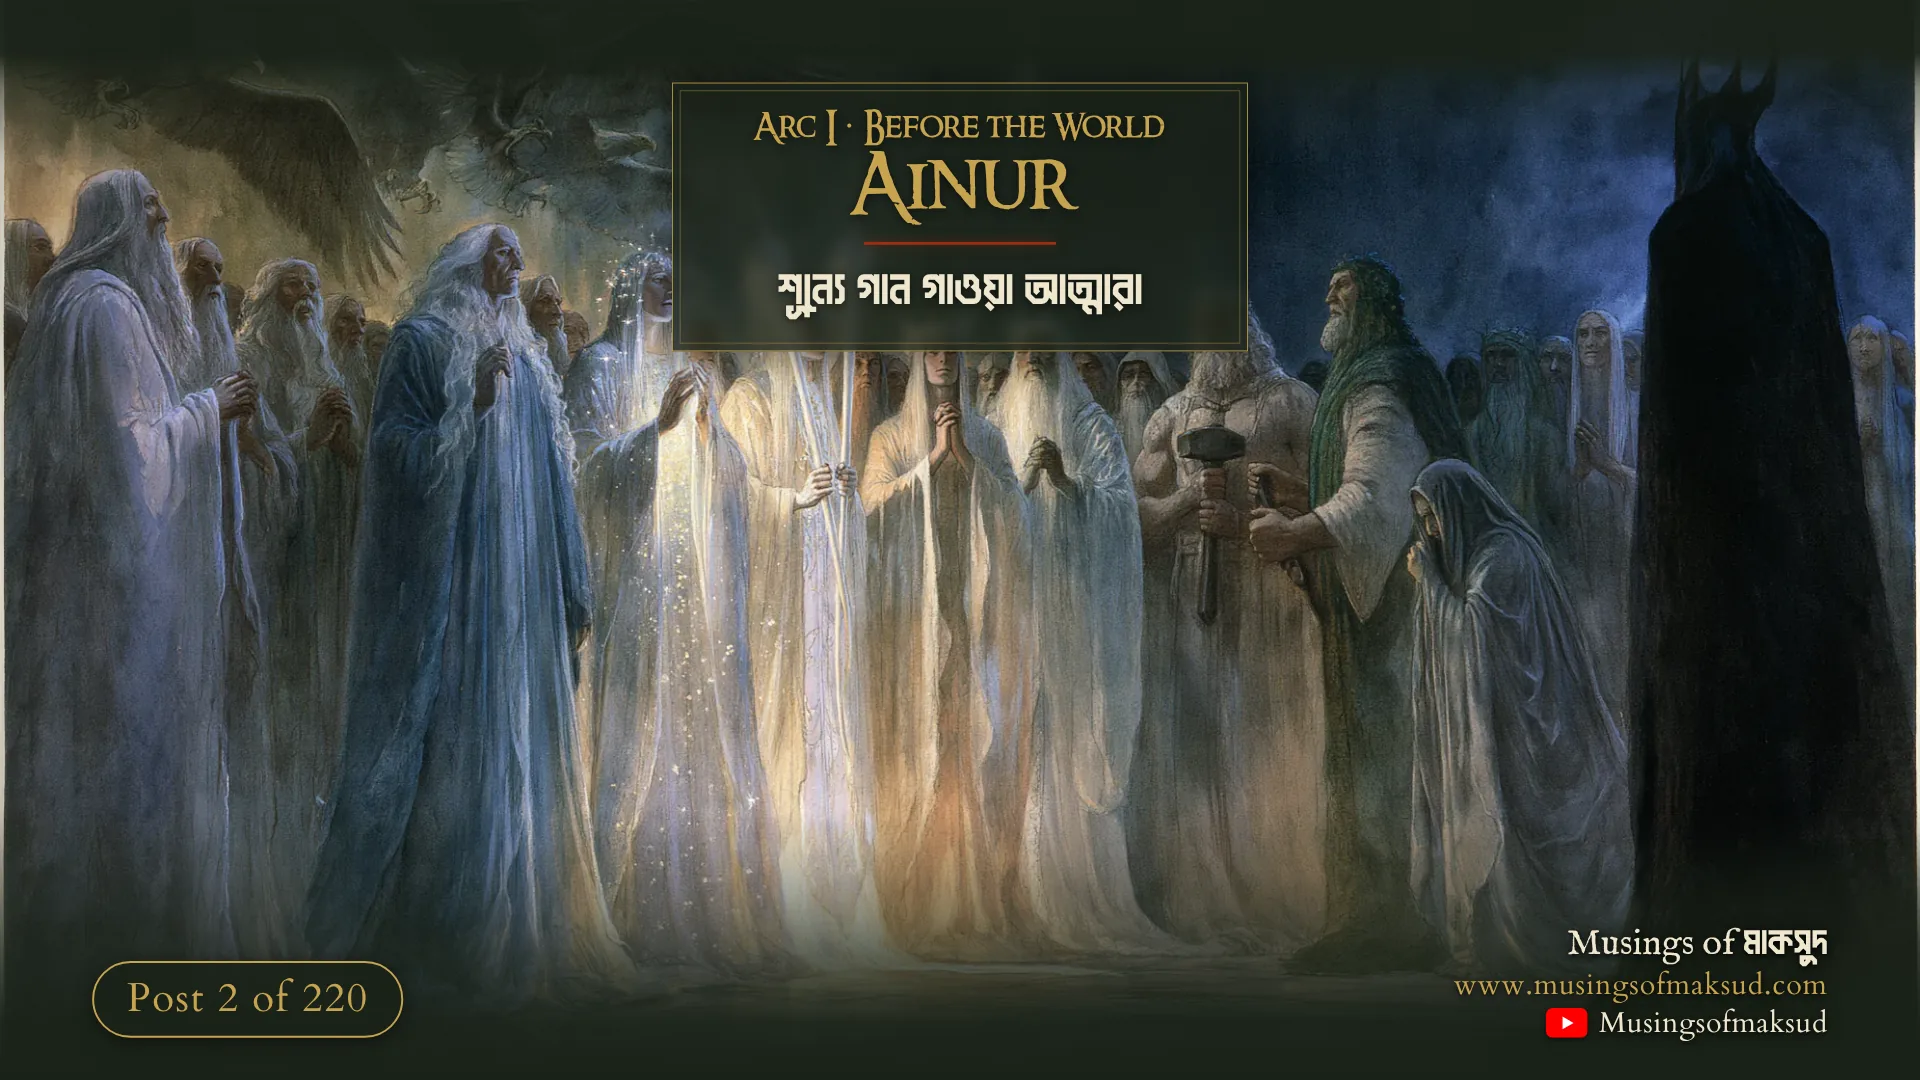
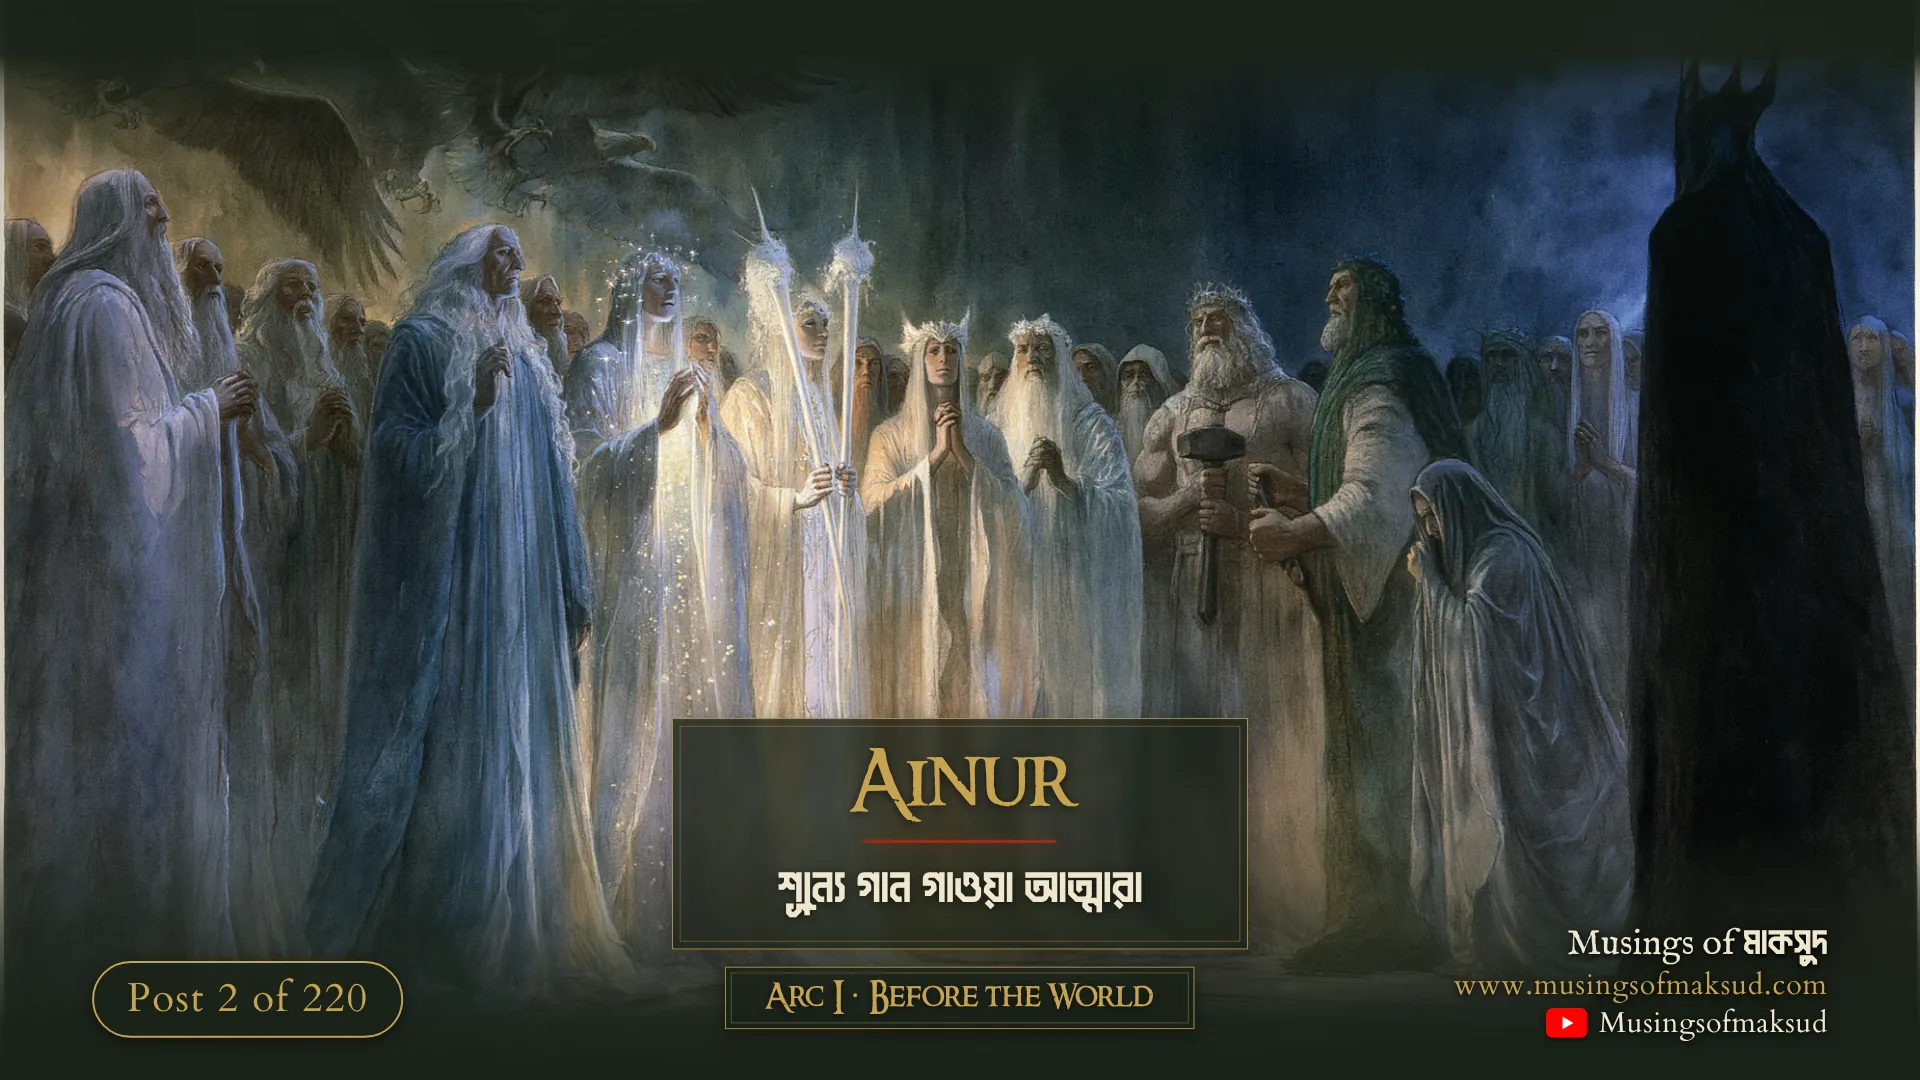
Put the arc in its own bottom bar and add bottom title positions
The arc now has its own bar at the bottom centre, level with the post
badge, instead of a small line in the title panel. Two new positions can
be set in posts.csv: bottom-middle, just above the arc bar, and
bottom-right, just above the signature. Batch-01 uses bottom-middle for
post 2 and bottom-right for post 5; posts 1, 3 and 4 keep top-left.

Claude-Session: https://claude.ai/code/session_014wYo4VJuxYnBG1jM4aApjo

Changed region(s): [[0.3438, 0.6417, 0.6562, 0.9472], [0.3438, 0.0917, 0.6562, 0.3667]]

diff --git a/post-batch/template.html b/post-batch/template.html
@@ -15,20 +15,28 @@ html,body{width:2000px;height:1125px;background:var(--bg);overflow:hidden}
 .bottom{background:linear-gradient(to top,rgba(26,34,24,1) 0,rgba(26,34,24,.96) 60px,rgba(26,34,24,.7) 130px,rgba(26,34,24,0) 280px)}
 .corner{background:radial-gradient(ellipse 620px 260px at 100% 100%,rgba(26,34,24,.85) 0%,rgba(26,34,24,.55) 50%,rgba(26,34,24,0) 100%)}
 .vignette{background:radial-gradient(ellipse 75% 80% at 55% 45%,rgba(26,34,24,0) 62%,rgba(26,34,24,.45) 100%)}
-/* title panel: top-left, top-middle or top-right */
+/* title panel: top-left, top-middle, top-right, or bottom-middle (above the arc bar) and
+   bottom-right (above the signature), which the script places after measuring */
 .panel{position:absolute;top:86px;width:600px;padding:26px 30px 28px;text-align:center;
   background:rgba(26,34,24,.80);backdrop-filter:blur(6px);
   border:1.5px solid rgba(198,163,80,.85);outline:1px solid rgba(198,163,80,.4);outline-offset:-9px;
   box-shadow:0 10px 40px rgba(0,0,0,.45)}
 .panel.left{left:96px}
 .panel.middle{left:700px}
-.panel.right{left:1304px}
+.panel.right,.panel.bottom-right{left:1304px}
+.panel.bottom-middle{left:700px}
 .kicker{font-family:Ringbearer;font-size:36px;white-space:nowrap;line-height:1.1;color:var(--title)}
 .title{font-family:Ringbearer;font-size:82px;white-space:nowrap;line-height:1.02;color:var(--title);text-shadow:0 0 30px rgba(198,163,80,.2)}
 .rule{width:200px;height:3px;background:var(--accent);margin:16px auto 12px;box-shadow:0 0 12px rgba(156,47,18,.6)}
 .bn{font-family:Dabanol;font-size:50px;white-space:nowrap;line-height:1.4;color:var(--text)}
 .kicker,.title,.bn{text-shadow:0 2px 10px rgba(0,0,0,.6)}
 .kicker:empty{display:none}
+/* arc bar: bottom centre, level with the post badge */
+.arc{position:absolute;left:50%;bottom:53px;transform:translateX(-50%);white-space:nowrap;
+  font-family:Ringbearer;font-size:34px;line-height:1;color:var(--title);padding:14px 40px 15px;
+  background:rgba(26,34,24,.86);border:1.5px solid rgba(198,163,80,.85);outline:1px solid rgba(198,163,80,.4);outline-offset:-7px;
+  box-shadow:0 4px 18px rgba(0,0,0,.5);text-shadow:0 2px 8px rgba(0,0,0,.6)}
+.arc:empty{display:none}
 /* fixed series slot: bottom-left on every post */
 .badge{position:absolute;left:96px;bottom:44px;font-family:Cardo;font-variant-numeric:lining-nums;letter-spacing:.04em;font-size:42px;line-height:1;color:var(--title);
   padding:16px 34px 18px;border:2.5px solid var(--title);border-radius:999px;background:rgba(26,34,24,.88);box-shadow:0 4px 18px rgba(0,0,0,.5)}
@@ -51,12 +59,13 @@ html,body{width:2000px;height:1125px;background:var(--bg);overflow:hidden}
   <div class="rule"></div>
   <div class="bn"></div>
 </div>
+<div class="arc"></div>
 <div class="badge"></div>
 <div class="sig"><div class="name">Musings of <span>মাকসুদ</span></div><div class="url">www.musingsofmaksud.com</div><div class="yt"><svg viewBox="0 0 28 20" aria-label="YouTube"><rect width="28" height="20" rx="4.5" fill="#FF0000"/><path d="M11.2 5.7v8.6l7.4-4.3z" fill="#FFFFFF"/></svg><span>Musingsofmaksud</span></div></div>
 </div>
 <script>
 (async () => {
-  // {image, fonts, position, kicker, title, bangla, post, total}
+  // {image, fonts, position, kicker, title, bangla, arc, post, total}
   const d = JSON.parse(decodeURIComponent(location.hash.slice(1)));
   const fonts = [['Ringbearer', 'middle-earth/Ringbearer.ttf'], ['Cardo', 'middle-earth/Cardo-400.ttf'],
                  ['IM Fell English', 'middle-earth/IMFellEnglish-400.ttf'], ['Dabanol', 'bangla/Dabanol.ttf']];
@@ -71,6 +80,7 @@ html,body{width:2000px;height:1125px;background:var(--bg);overflow:hidden}
   $('.title').textContent = d.title;
   $('.bn').textContent = d.bangla;
   $('.badge').textContent = `Post ${d.post} of ${d.total}`;
+  $('.arc').textContent = d.arc || '';
   const img = $('.art');
   img.src = d.image;
   await img.decode();
@@ -94,6 +104,11 @@ html,body{width:2000px;height:1125px;background:var(--bg);overflow:hidden}
   if (d.kicker) fit($('.kicker'), 'small line', 36, 26, 30, 24);
   fit($('.title'), 'title', 82, 56, 60, 40);
   fit($('.bn'), 'Bangla line', 50, 38, 44, 34);
+  // bottom positions sit 18px above the arc bar (or the badge) / the signature
+  if (d.position === 'bottom-middle' || d.position === 'bottom-right') {
+    const below = d.position === 'bottom-right' ? $('.sig') : (d.arc ? $('.arc') : $('.badge'));
+    panel.style.top = (below.getBoundingClientRect().top - 18 - panel.offsetHeight) + 'px';
+  }
   const r = panel.getBoundingClientRect();
   window.LAYOUT = {panel: [r.left, r.top, r.right, r.bottom], warnings};
   window.READY = true;

diff --git a/post-batch/batch.py b/post-batch/batch.py
@@ -26,7 +26,9 @@ Step 3, final images (no model needed):
 posts.csv columns (UTF-8): post, english_title, bangla_subtitle
   Optional: image (file name in the images folder; left empty, the image whose name starts
   with the post number is used, e.g. 1.png or post-001.jpg), english_kicker (small line
-  above the title), position (left/middle/right).
+  above the title), arc (shown in its own bar at the bottom centre), position (left,
+  middle or right at the top, or bottom-middle above the arc bar, or bottom-right above
+  the signature).
   If english_kicker is empty and a long title contains "of", the part up to the last
   "of" becomes the small line, as in "The Complete History of / Middle-earth".
 """
@@ -38,7 +40,8 @@ import numpy as np
 from PIL import Image, ImageDraw, ImageFilter, ImageFont
 
 HERE = Path(__file__).resolve().parent
-POSITIONS = ["left", "middle", "right"]
+POSITIONS = ["left", "middle", "right"]                     # chosen by reviewers
+ALL_POSITIONS = POSITIONS + ["bottom-middle", "bottom-right"]  # can also be set in posts.csv
 LAYOUT_W, LAYOUT_H = 2000, 1125
 FINAL_SCALE = 0.96          # 2000x1125 layout -> 1920x1080
 THUMB_SCALE = 0.4           # -> 800x450 for choice sheets
@@ -100,14 +103,15 @@ def read_posts(csv_path, images_dir):
                 continue
             img = matches[0]
         pos = r.get("position", "").lower()
-        if pos and pos not in POSITIONS:
-            problems.append(f"line {i}: position must be left, middle or right, not {pos!r}")
+        if pos and pos not in ALL_POSITIONS:
+            problems.append(f"line {i}: position must be one of {', '.join(ALL_POSITIONS)}, not {pos!r}")
         kicker, title = r.get("english_kicker", ""), r["english_title"]
         if not kicker:
             kicker, title = split_title(title)
         posts.append({"post": r["post"], "num": num,
                       "kicker": kicker, "title": title, "full_title": r["english_title"],
-                      "bangla": r["bangla_subtitle"], "image": img.resolve(), "position": pos})
+                      "bangla": r["bangla_subtitle"], "arc": r.get("arc", ""),
+                      "image": img.resolve(), "position": pos})
     if problems:
         sys.exit("Fix posts.csv first:\n  " + "\n  ".join(problems))
     return posts
@@ -137,7 +141,7 @@ def stem(p):
 
 def job_data(p, position, fonts, total):
     return {"image": p["image"].as_uri(), "fonts": fonts.as_uri(), "position": position,
-            "kicker": p["kicker"], "title": p["title"], "bangla": p["bangla"],
+            "kicker": p["kicker"], "title": p["title"], "bangla": p["bangla"], "arc": p["arc"],
             "post": p["post"], "total": total}
 
 
@@ -276,7 +280,7 @@ def read_decisions(out):
             for r in csv.DictReader(fh):
                 pos = (r.get("position") or "").strip().lower()
                 num = re.sub(r"\D", "", r.get("post") or "")
-                if pos in POSITIONS and num:
+                if pos in ALL_POSITIONS and num:
                     dec[int(num)] = (pos, (r.get("note") or "").strip())
     return dec
 
@@ -310,7 +314,7 @@ def cmd_final(a):
         name = f"{stem(p)}-{slug(p['full_title'])}.webp"
         q, size = encode_webp(png, out / name)
         flags = list(res[str(png)]["warnings"])
-        if sc[pos] > 1.3 * min(sc.values()):
+        if pos in sc and sc[pos] > 1.3 * min(sc.values()):
             flags.append(f"busy area under the title (score {sc[pos]:.2f}, quietest {min(sc, key=sc.get)} {min(sc.values()):.2f})")
         if note.upper().startswith("CHECK"):
             flags.append("reviewer: every position hides something")

diff --git a/post-batch/README.md b/post-batch/README.md
@@ -25,7 +25,8 @@ A batch folder is ready at `batches/batch-01/`. Upload on GitHub in your browser
 | `bangla_subtitle` | yes | `গানের ভেতর দিয়ে জগতের জন্ম` |
 | `image` | no | File name inside `images/`. Left out, the image named with the post number is used. |
 | `english_kicker` | no | Small line above the title. Left out, a long title is split at "of" when that gives a short main line, like "The Complete History of / Middle-earth". |
-| `position` | no | `left`, `middle` or `right` to fix the title position yourself. Left out, it is chosen for you. |
+| `arc` | no | Shown in its own bar at the bottom centre, like `Arc I · Before the World`. |
+| `position` | no | Fix the title position yourself: `left`, `middle` or `right` at the top, `bottom-middle` (just above the arc bar) or `bottom-right` (just above the signature). Left out, a reviewer picks left, middle or right. |
 
 For the next batch, ask Claude to make `batches/batch-02/` the same way.
 
